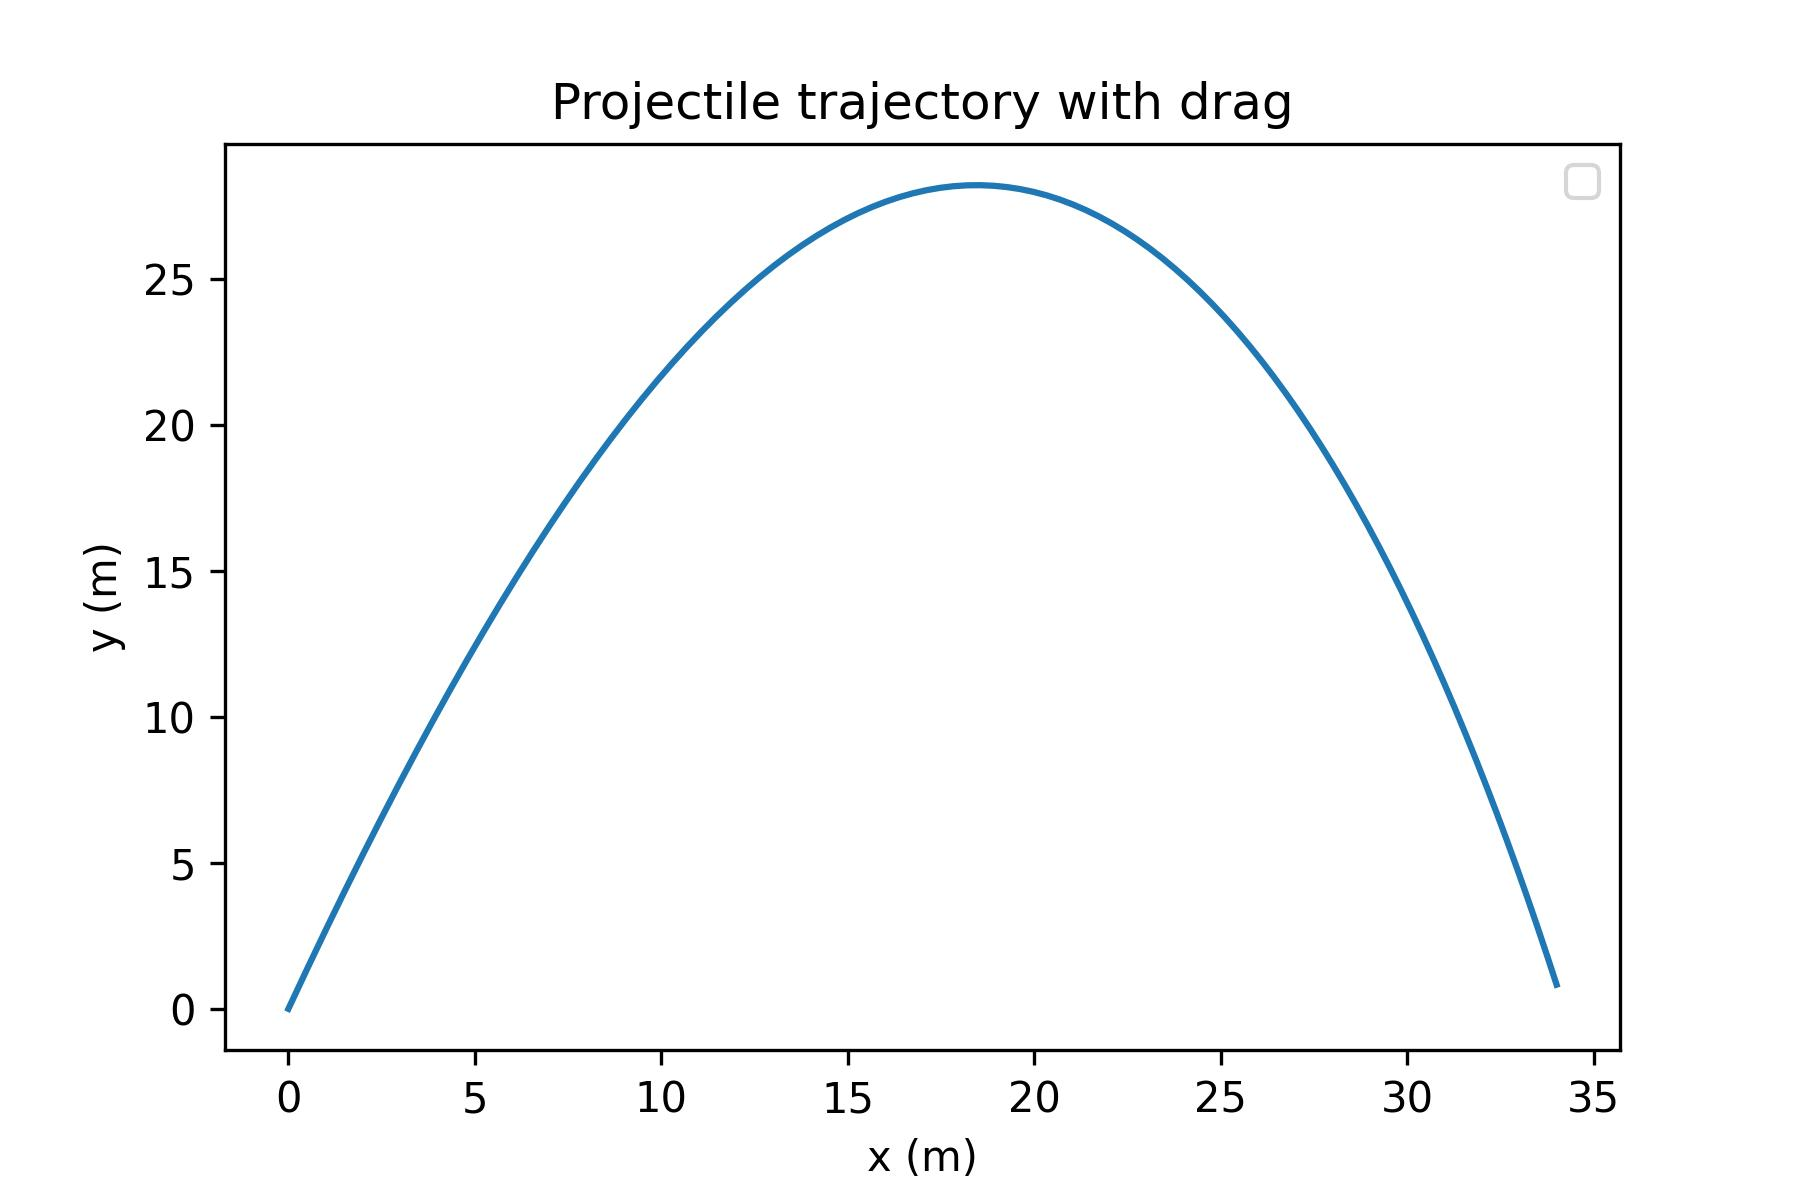
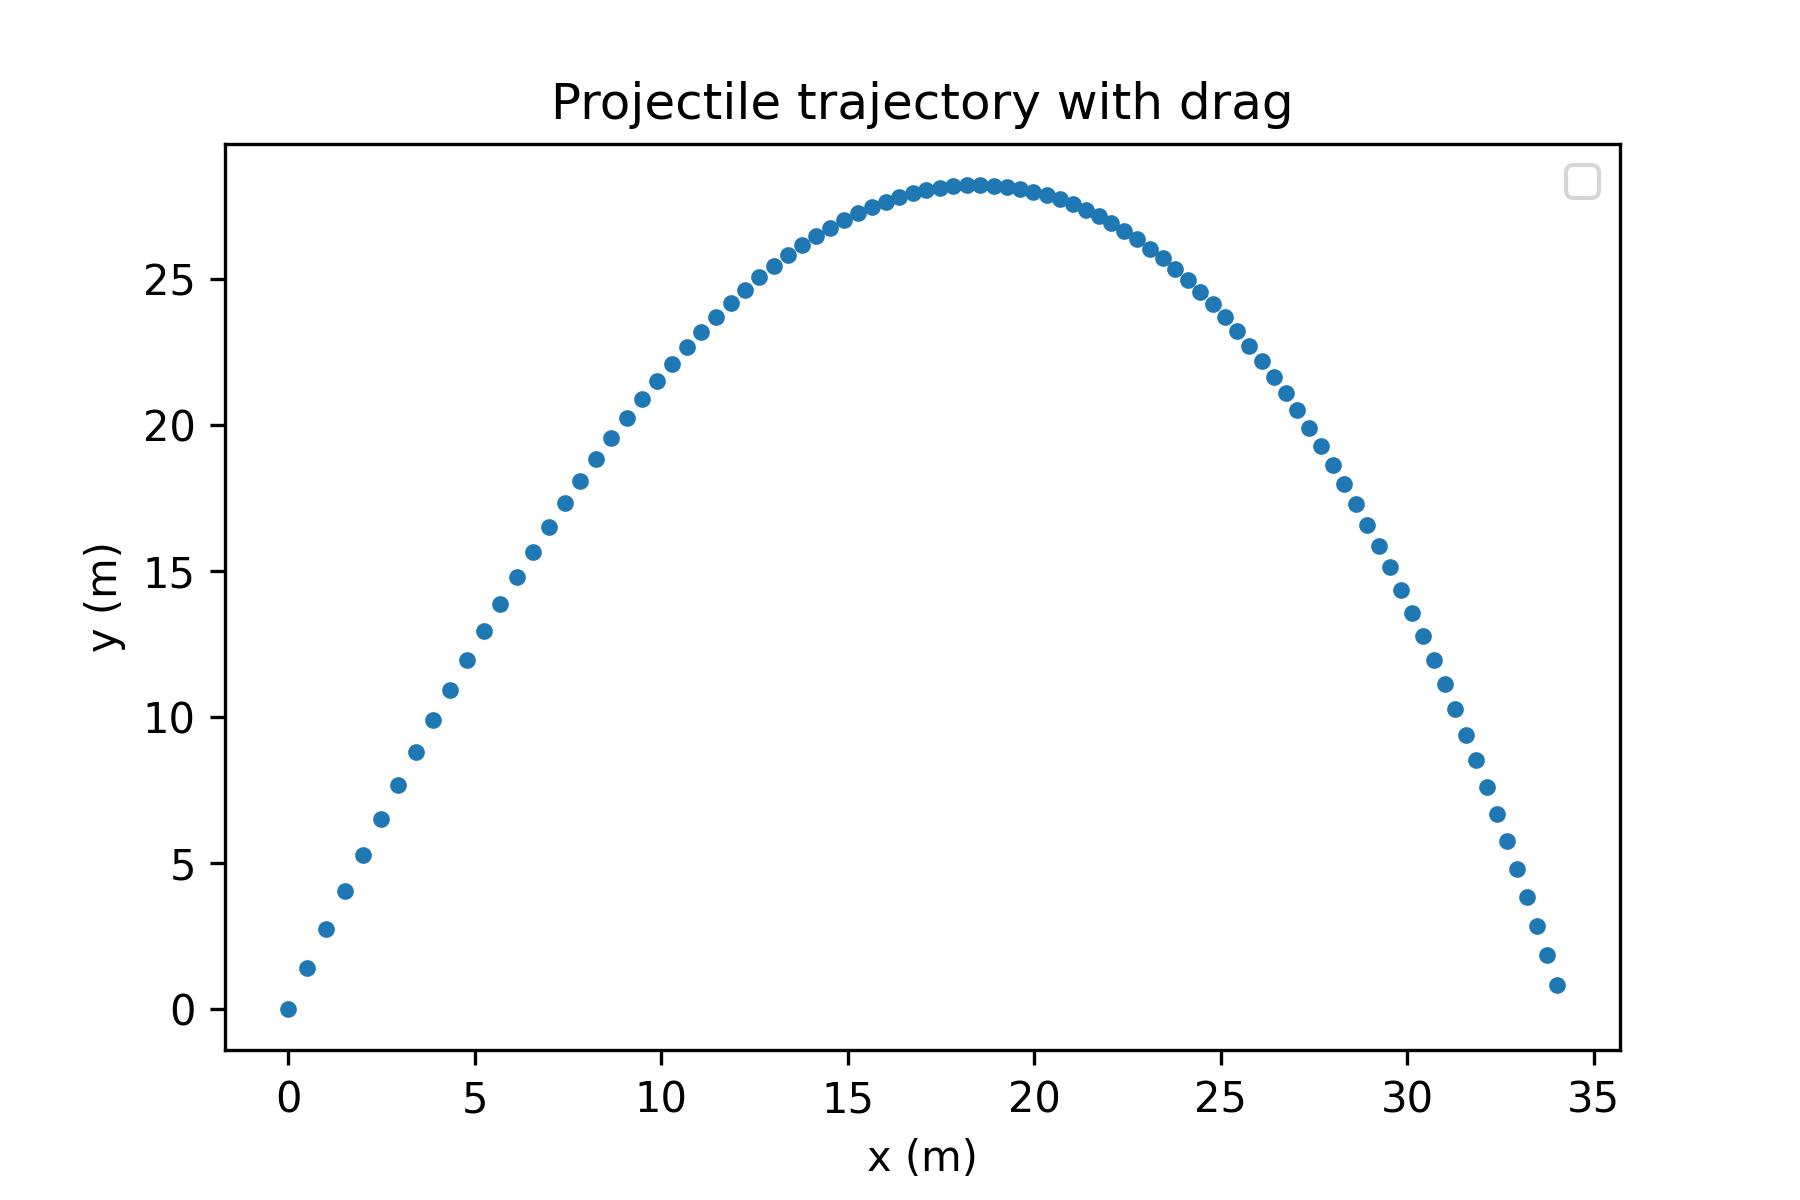
updates

diff --git a/System/plot.py b/System/plot.py
@@ -12,7 +12,7 @@ import pandas as pd
 
 
 df = pd.read_csv("trajectory.csv")
-plt.plot(df['x'],df['y'])
+plt.plot(df['x'],df['y'],'.')
 plt.xlabel("x (m)")
 plt.ylabel("y (m)")
 plt.title("Projectile trajectory with drag")
